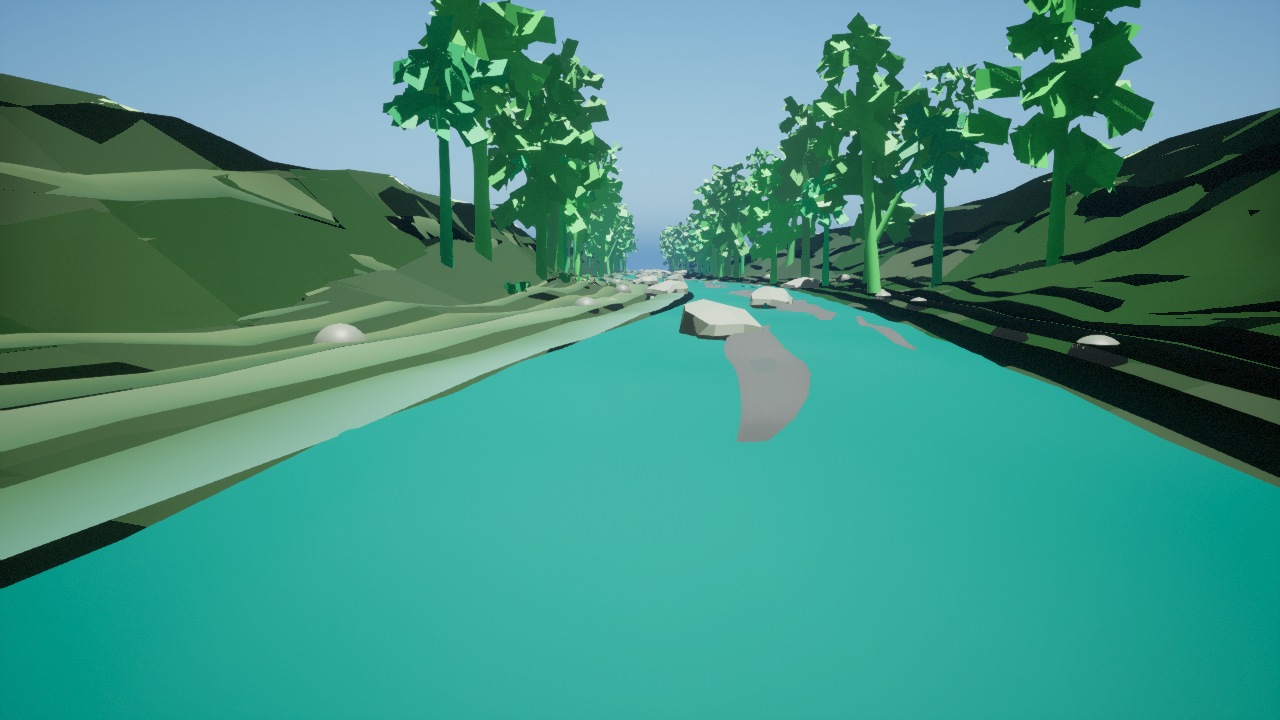
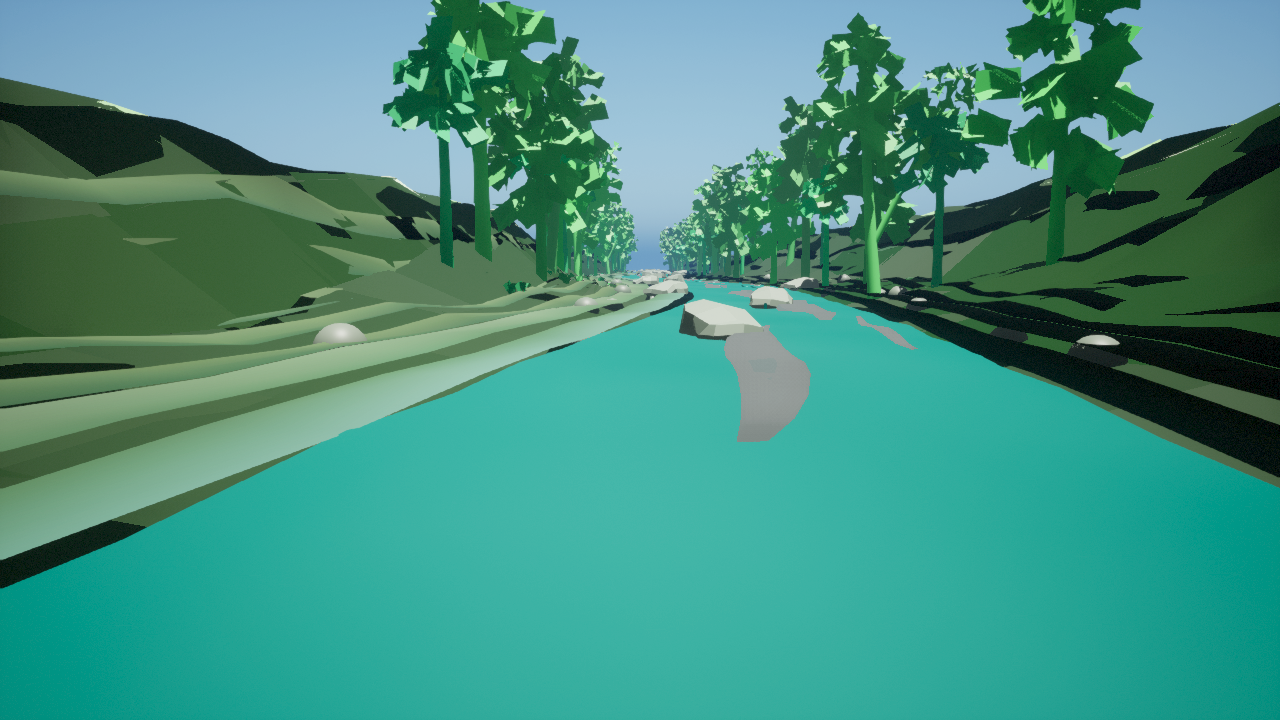
Wire Pacuare preview to pilot derivatives

diff --git a/unreal/Plugins/RaftSim/Source/RaftSimEditor/Private/RaftSimEditorModule.cpp b/unreal/Plugins/RaftSim/Source/RaftSimEditor/Private/RaftSimEditorModule.cpp
@@ -304,19 +304,19 @@ TArray<FRaftSimEnvironmentPreviewSpec> GetEnvironmentPreviewSpecs()
     Pacuare.MapPackagePath = TEXT("/Game/RaftSim/Maps/EnvironmentPreviews/L_PacuareRainforest_PhotorealPreview");
     Pacuare.SourceManifest = TEXT("physics/data/real_world/pacuare_river_costa_rica/source_manifest.json");
     Pacuare.AerialDrapeImage =
-        TEXT("physics/data/real_world/pacuare_river_costa_rica/imagery/pacuare_nasa_gibs_2025-04-02_demshade_source_drape_1024.png");
+        TEXT("physics/data/real_world/pacuare_river_costa_rica/imagery/production_import_pilot/source_drape_4096.png");
     Pacuare.TerrainReliefImage =
-        TEXT("physics/data/real_world/pacuare_river_costa_rica/terrain/pacuare_dem_relief_preview_1024.png");
+        TEXT("physics/data/real_world/pacuare_river_costa_rica/terrain/production_import_pilot/dem_relief_2048.png");
     Pacuare.HeightfieldPreviewImage =
-        TEXT("physics/data/real_world/pacuare_river_costa_rica/terrain/pacuare_copernicus_dem_corridor_heightfield_1009.png");
+        TEXT("physics/data/real_world/pacuare_river_costa_rica/terrain/production_import_pilot/heightfield_candidate_2017.png");
     Pacuare.WaterMaskImage =
-        TEXT("physics/data/real_world/pacuare_river_costa_rica/imagery/pacuare_nasa_gibs_2025-04-02_water_mask_1024.png");
+        TEXT("physics/data/real_world/pacuare_river_costa_rica/imagery/production_import_pilot/water_mask_2048.png");
     Pacuare.VegetationMaskImage =
-        TEXT("physics/data/real_world/pacuare_river_costa_rica/imagery/pacuare_nasa_gibs_2025-04-02_vegetation_mask_1024.png");
+        TEXT("physics/data/real_world/pacuare_river_costa_rica/imagery/production_import_pilot/vegetation_mask_2048.png");
     Pacuare.ElevationSample =
         TEXT("physics/data/real_world/pacuare_river_costa_rica/terrain/copernicus_dem_glo30_N09_W084.tif; physics/data/real_world/pacuare_river_costa_rica/terrain/copernicus_dem_glo30_N10_W084.tif");
     Pacuare.SourceDrapeDescription =
-        TEXT("larger deterministic 1024px preview drape generated from the selected official NASA GIBS MODIS/Terra true-color sample and Copernicus DEM GLO-30 relief, sampled into a denser terrain-conforming rainforest source-drape mosaic with cloud gaps filled by DEM-derived shading; larger derived 1024px Copernicus DEM relief preview and review-gated 1009px heightfield candidate sampled into Pacuare bank and gorge preview geometry; review-gated source water/vegetation masks sampled into terrain color and deterministic wet-rock, talus, rainforest foliage, and understory placement; first-party procedural rainforest leaf-litter, wet-rock, talus, and vertex-color water-gradient detail generated as rights-safe proxy dressing; Copernicus DEM COG tiles remain recorded for follow-on Pacuare gorge heightfield conditioning; rocks, foliage, water shaders, waterfalls, foam, raft, and lighting remain proxy layers");
+        TEXT("review-gated Pacuare production-import derivative placeholders generated from the selected NASA GIBS MODIS/Terra true-color seed and Copernicus DEM GLO-30 relief, normalized into a 4096px source drape, 2048px DEM relief, 2017px heightfield candidate, and 2048px water/vegetation masks; these remain coarse/cloudy proxy inputs until higher-resolution cloud-screened imagery, local hydrology/hydrography, protected-area review, and guide/outfitter validation are attached; first-party procedural rainforest leaf-litter, wet-rock, talus, mist, and vertex-color water-gradient detail remains rights-safe proxy dressing; rocks, foliage, water shaders, waterfalls, foam, raft, and lighting remain proxy layers");
     Pacuare.FlowBandId = TEXT("rainfed_runnable_planning");
     Pacuare.FlowBandDisplayName = TEXT("Rain-Fed Runnable Planning");
     Pacuare.FlowBandSource = TEXT("physics/data/real_world/pacuare_river_costa_rica/flow_presets.json");

diff --git a/TODO.md b/TODO.md
@@ -969,6 +969,7 @@ This milestone turns the three runnable river targets into complete, reviewable,
 - [x] Wire the Colorado Unreal preview to the production-import pilot derivatives and refresh captures: the generated preview now uses `source_drape_4096.png`, `dem_relief_2048.png`, `heightfield_candidate_2017.png`, `water_mask_2048.png`, and `vegetation_mask_2048.png` for Colorado terrain/drape/mask sampling, with guide-seat and river-eye captures regenerated while keeping those inputs review-gated until metadata review, mosaic/clip, river-mile stationing, release-aware masks, and guide/oarsman approval pass.
 - [x] Select Pacuare as the third production geospatial import pilot recipe and record its source-product plan: `physics/data/real_world/pacuare_river_costa_rica/production_import_pilot.json` now starts from the attached Copernicus DEM and NASA GIBS/Copernicus preview seeds, records Costa Rica CRS, SNIT/IDECORI, IMN/ICE/MINAE, SINAC/protected-area, Sentinel/Landsat/cloud-screening, guide/outfitter media, and procedural rainforest/mist/wet-rock generation gates, and remains blocked until local hydrology, hydrography, protected-area, and rights-reviewed field validation are attached.
 - [x] Generate review-gated Pacuare production-import derivative placeholders from the attached public/global source seeds: `source_drape_4096.png`, `dem_relief_2048.png`, `heightfield_candidate_2017.png`, `water_mask_2048.png`, and `vegetation_mask_2048.png` now normalize the existing Copernicus DEM and NASA/Copernicus preview inputs into the same folder shape as the U.S. pilots, with caveats recorded in `production_import_pilot_derivatives_manifest.json`. These remain coarse/cloudy proxy inputs until higher-resolution imagery, local hydrology/hydrography, protected-area review, and guide/outfitter validation are attached.
+- [x] Wire the Pacuare Unreal preview to the production-import derivative placeholders and refresh captures: the generated preview now uses `source_drape_4096.png`, `dem_relief_2048.png`, `heightfield_candidate_2017.png`, `water_mask_2048.png`, and `vegetation_mask_2048.png` for Pacuare terrain/drape/mask sampling, with guide-seat and river-eye captures regenerated while keeping those inputs review-gated and explicitly stylized/proxy until higher-resolution imagery, local hydrology/hydrography, protected-area review, and guide/outfitter validation are attached.
 - [ ] Pull or attach reviewed production geospatial source data: DEM/lidar, hydrography, aerial/satellite imagery, water/vegetation masks, flow/gauge/rainfall history, protected-area/access context, and guide/media annotation references.
 - [ ] Replace proxy terrain, banks, rocks, foliage, water materials, foam/spray/mist, wetness, and lighting with source-derived or rights-cleared assets until screenshots read as lifelike without hiding hazards or rescue targets.
 - [ ] Add or license production-quality river environment asset packs/materials, or generate approved first-party procedural equivalents, for canyon walls, riverbeds, wet boulders, shore vegetation, tropical canopy, foam/spray/mist, raft foreground, and river-specific atmospheric lighting.

diff --git a/docs/photoreal-river-environment-production-plan.md b/docs/photoreal-river-environment-production-plan.md
@@ -90,6 +90,7 @@ Initial source slice:
 - The Colorado Unreal preview now samples those pilot derivatives for the aerial drape, terrain relief, heightfield preview, water mask, and vegetation mask, with refreshed guide-seat and river-eye captures recorded in `docs/environment-captures/photoreal_river_previews/environment_capture_manifest.json`. The frames are still proxy art and not lifelike, but the Colorado preview is now on the same source-derivative path as South Fork.
 - Pacuare now has a source-product production import pilot recipe. `physics/data/real_world/pacuare_river_costa_rica/production_import_pilot.json` starts from the attached Copernicus DEM and NASA GIBS/Copernicus preview seeds, records Costa Rica CRS, SNIT/IDECORI, IMN/ICE/MINAE, SINAC/protected-area, Sentinel/Landsat/cloud-screening, guide/outfitter media, and procedural rainforest/mist/wet-rock generation gates, and keeps the recipe blocked until local hydrology, hydrography, protected-area, and rights-reviewed field validation are attached.
 - Pacuare now also has review-gated production-import derivative placeholders in the same folder shape as the U.S. rivers: `imagery/production_import_pilot/source_drape_4096.png`, `terrain/production_import_pilot/dem_relief_2048.png`, `terrain/production_import_pilot/heightfield_candidate_2017.png`, `imagery/production_import_pilot/water_mask_2048.png`, and `imagery/production_import_pilot/vegetation_mask_2048.png`, with caveats in `production_import_pilot_derivatives_manifest.json`. These normalize the existing Copernicus DEM and NASA/Copernicus preview seeds for the next Unreal pass; they are coarse/cloudy proxy inputs, not production photoreal terrain or imagery.
+- The Pacuare Unreal preview now samples those production-import placeholder derivatives for the aerial drape, terrain relief, heightfield preview, water mask, and vegetation mask, with refreshed guide-seat and river-eye captures recorded in `docs/environment-captures/photoreal_river_previews/environment_capture_manifest.json`. The frames are still stylized/proxy, but Pacuare now follows the same review-gated derivative wiring pattern as South Fork and Colorado.
 - OpenTopography SRTMGL1 was probed and returned an API-key requirement, so that path remains available only after key and terms review.
 
 ## Unreal Construction Plan
